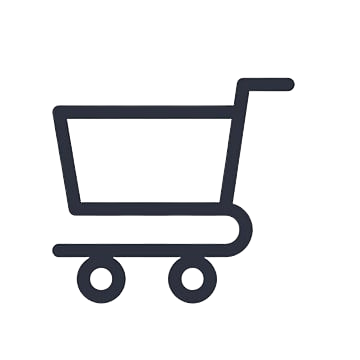
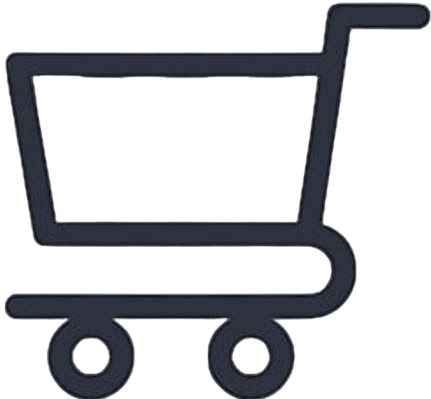
장바구니아이콘 front 변경

diff --git a/devel/src/main/resources/templates/fragments/bidheader.html b/devel/src/main/resources/templates/fragments/bidheader.html
@@ -43,11 +43,10 @@
 <!--                </li>-->
             </ul>
             <li class="nav-item" sec:authorize="isAuthenticated()">
-                <a class="navbar-brand" href="/cart">
-                    <img th:src="@{/images/cart.png}" alt="cart" class="img-fluid" style="width:50px;">
-                    <span th:text="${totalCount}"style="display: inline-block; width: 30px; height: 30px; border-radius: 50%; background-color: red; color: white; text-align: center; line-height: 30px;"></span>
+                <a class="navbar-brand" href="/cart" style="position: relative; display: inline-block;">
+                    <img th:src="@{/images/cart.png}" alt="cart" class="img-fluid" style="width:40px;transform: scaleX(-1);">
+                    <span th:text="${totalCount}" style="position: absolute;top: -10px;right: -15px;display: inline-block;width: 30px;height: 30px;border-radius: 50%;background-color: red;color: white;text-align: center;line-height: 30px;font-size: 14px;font-weight: bold;"></span>
                 </a>
-
             </li>
 
             <form id="searchForm" class="form-inline my-2 my-lg-0" th:action="@{/biditem/list}" method="get">

diff --git a/devel/src/main/resources/templates/fragments/header.html b/devel/src/main/resources/templates/fragments/header.html
@@ -43,11 +43,10 @@
 <!--                </li>-->
             </ul>
             <li class="nav-item" sec:authorize="isAuthenticated()">
-                <a class="navbar-brand" href="/cart">
-                    <img th:src="@{/images/cart.png}" alt="cart" class="img-fluid" style="width:50px;">
-                    <span th:text="${totalCount}"style="display: inline-block; width: 30px; height: 30px; border-radius: 50%; background-color: red; color: white; text-align: center; line-height: 30px;"></span>
+                <a class="navbar-brand" href="/cart" style="position: relative; display: inline-block;">
+                    <img th:src="@{/images/cart.png}" alt="cart" class="img-fluid" style="width:40px;transform: scaleX(-1);">
+                    <span th:text="${totalCount}" style="position: absolute;top: -10px;right: -15px;display: inline-block;width: 30px;height: 30px;border-radius: 50%;background-color: red;color: white;text-align: center;line-height: 30px;font-size: 14px;font-weight: bold;"></span>
                 </a>
-
             </li>
 
             <form id="searchForm" class="form-inline my-2 my-lg-0" th:action="@{/}" method="get">

diff --git a/devel/build/resources/main/templates/main.html b/devel/build/resources/main/templates/main.html
@@ -131,14 +131,22 @@
             filter: grayscale(100%);
         }
         .link-hover h6 {
-            transition: font-size 0.3s ease;
+            transition: color 0.3s ease;
             text-align: center;
             display: block;
-            color: black;
+            color: gray;
         }
 
         .link-hover:hover h6 {
-            font-size: 18px;
+            color: black;
+        }
+
+        .link-hover {
+            text-decoration: none !important; /* 링크에 강제 밑줄 제거 */
+        }
+
+        .link-hover:hover {
+            text-decoration: none !important; /* 링크에 강제 밑줄 제거 */
         }
 
     </style>
